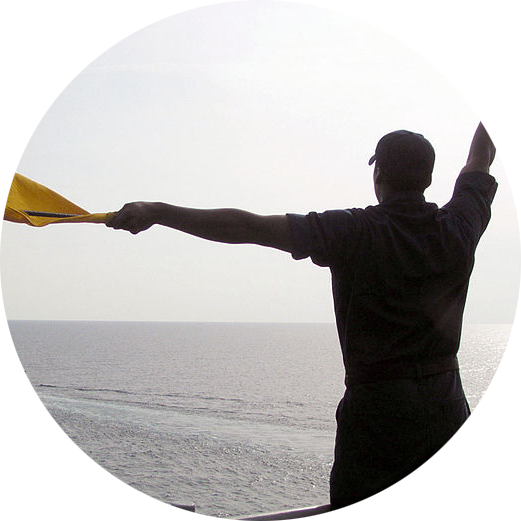
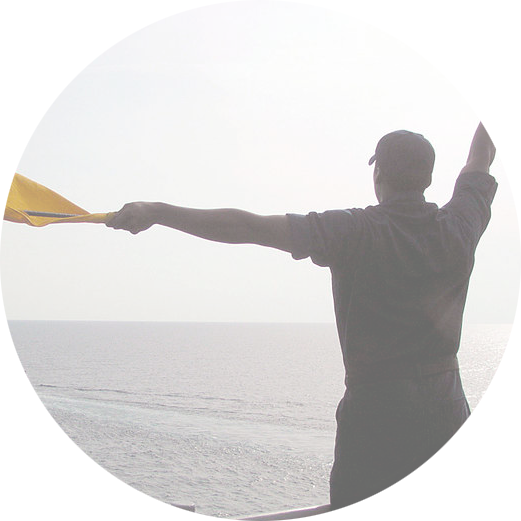
22.03.2021

diff --git a/Esercizio 4.html b/Esercizio 4.html
@@ -8,14 +8,12 @@
 
 	<style type="text/css">
 		
-		footer{
-			margin: 0
-		}
+		
 
 
 
 		body{
-			background-color: WhiteSmoke;
+			background-color: White;
 			font-family: "Helvetica Neue", sans-serif;
 		}
 
@@ -175,6 +173,8 @@
 		font-family: Basier Square, Arial, Helvetica, sans-serif;
 		font-size: 12pt;
 		line-height: 14pt;
+		margin-top: 1em;
+		color: grey;
 		}
 
 		.bottone a{
@@ -195,6 +195,14 @@
   		.cover {
  			 object-fit: cover;
 		}
+		
+		.colophon{
+		font-family: Basier Square, Arial, Helvetica, sans-serif;
+		font-size: 12pt;
+		line-height: 20pt;
+		margin-top: 1em;
+		 padding-top: 3vh;
+		 margin-left: 8%;
 		}
 
 
@@ -223,10 +231,10 @@
 
 </head>
 <body>
+
+
 	<main>
 <div class="boxvuoto">
-
-	
 
 	 <div class="cella doppia titolo">
 		<h1>
@@ -244,6 +252,8 @@
 
 <div id="bottone" class="bottone"> <a href=""> Indice </a>
 </div>
+
+
 
 <div class="griglia">
 
@@ -319,13 +329,17 @@
 		</p>
 	</div>
 	
-	<div class="cella "></div>	
+	<div class="cella ">
+	</div>	
+
 	<div class="cella quadrupla video">
 		<video height="100%" controls=>
 		<source src="assets/video/telegrafo.mp4" type="video/mp4">
 		</video>
 	</div>
-	<div class="cella "> </div>
+
+	<div class="cella "> 
+	</div>
 
 	<div class="cella sestupla">
 		<h2>
@@ -347,45 +361,66 @@
 	</div>
 
 	
-</div>
- <div class="griglia">
+
+
+
  	
-	<div class="cella sestupla" style= "background-image: url(assets/img/9.png); background-repeat: no-repeat; background-position: top right;background-size: 70%; height: 60vw; opacity: 60%; z-index: -1">
+	<div class="cella sestupla" style= "background-image: url(assets/img/9.png); background-repeat: no-repeat; background-position: top right;background-size: 70%; height: 60vw; z-index: -1">
 		
 		<h2>
 			L’utilizzo al giorno d’oggi
 		</h2>
 		<p style="width: 75%; opacity: 1; ">
 			In Marina viene impiegato tuttora un telegrafo ottico costituito da un piccolo faro che può essere oscurato o meno agendo su una levetta. Si tratta di una forte lampada capace di produrre un fascio ben collimato, rinviato da uno specchio sferico o paraboloidico. Un sistema di lamelle orizzontali può essere manovrato con una levetta, come una tenda “alla veneziana”, e con ciò liberare o bloccare il fascio. Così è possibile inviare segnali Morse da una nave ad un’altra per mezzo di impulsi di luce. Un altro sistema impiega due bandierine impugnate da un marinaio che, assumendo diverse posizioni, codifica lettere e segnali standard. Altri tipi di bandiere sono usati nel Codice Internazionale Nautico. In fondo, sia pure a brevissima distanza, anche il codice gestuale dei sordi è una forma di comunicazione ottica; il singolo messaggio esprime spesso una parola, un concetto, un’intera frase. 
-		
 		</p>
+	</div>	
+
+
 
 	
-</div>	
 
+
+	
+<div  class="cella ">
+	<p class="colophon">
+		Link alla sitografia: <br>
+
+		<a href="https://www.divinamilano.it/il-telegrafo-ottico/">divinamilano.it</a> <br>
+
+ 		<a href="https://www.treccani.it/enciclopedia/telegrafo_%28Enciclopedia-Italiana%29/">Treccani.it</a> <br>
+
+		<a href="http://www.funsci.it/files/Telegrottico.pdf">funsci.it</a>
+	</p>
+</div>
+<div class="cella">
+	
 </div>
 
+	<div class="cella">
+		<p class="colophon" style="color: black">
+		Atlante tecnologico <br>
+		Telegrafo ottico <br>
+		Martin Ross Franzè	
+		</p>
+	</div>
+
+	<div class="cella">
+		
+	</div>
+
+	<div class="cella doppia">
+		<p class="colophon" style="color: black">
+			SUPSI <br>
+Corso di Interaction Design, A.A. 2020-2021 <br>
+Docenti: Andreas Gysin, Giovanni Profeta
+		</p>
+	</div>
+	
 </div>
-
-
+	
 
 </main>
 
-<footer>	
-
-<div style="background-color: White; height: 10vh; padding-top: 5vh ">
-	<p class="didascalia" style="margin-left: 8%;">
-		Link alla sitografia: <br>
-
-		<a href="https://www.divinamilano.it/il-telegrafo-ottico/">https://www.divinamilano.it/il-telegrafo-ottico/</a> <br>
-
- 		<a href="https://www.treccani.it/enciclopedia/telegrafo_%28Enciclopedia-Italiana%29/">https://www.treccani.it/enciclopedia/telegrafo_%28Enciclopedia-Italiana%29/</a> <br>
-
-		<a href="http://www.funsci.it/files/Telegrottico.pdf">http://www.funsci.it/files/Telegrottico.pdf</a>
-	</p>
-</div>
-
-</footer>
 </body>
 
 
